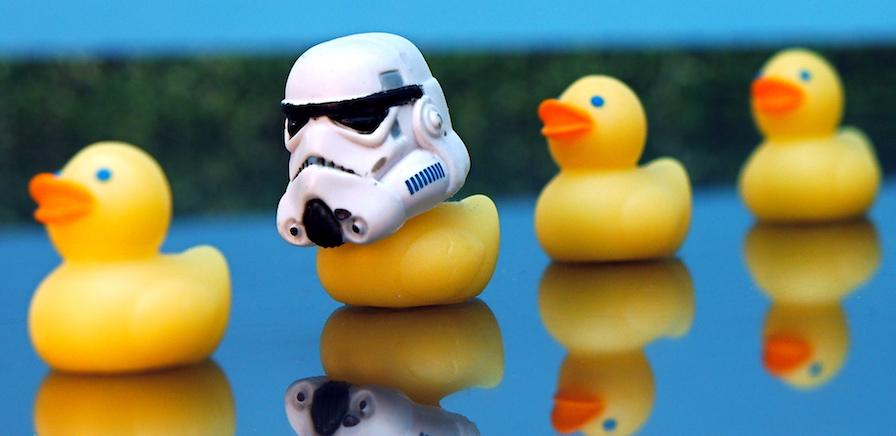
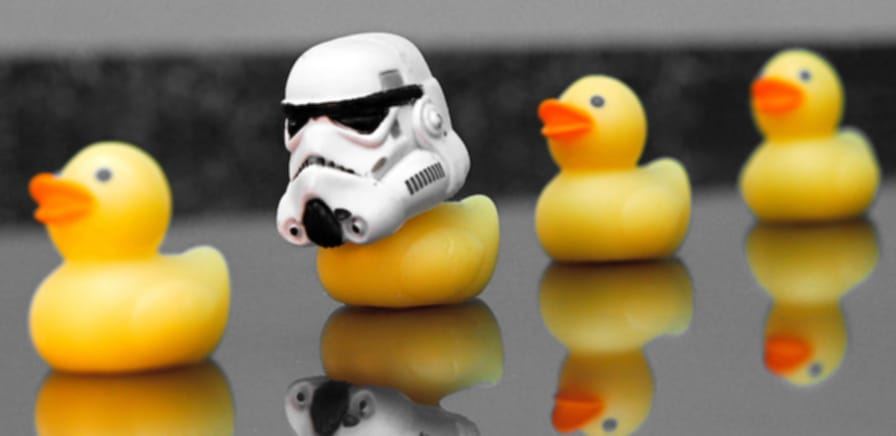
desaturate buoyant image

diff --git a/content/projects/buoyant.md b/content/projects/buoyant.md
@@ -1,4 +1,4 @@
-![A series of rubber duckies, one with a stormtrooper helmet](/static/0737bed3a9a524bd1c1f1d7f3054af6c/buoyant.jpg)
+![A series of rubber duckies, one with a stormtrooper helmet](/static/f53ff18903bda93b1cc6755f85772d1e/buoyant.jpg)
 
 # Buoyant
 
